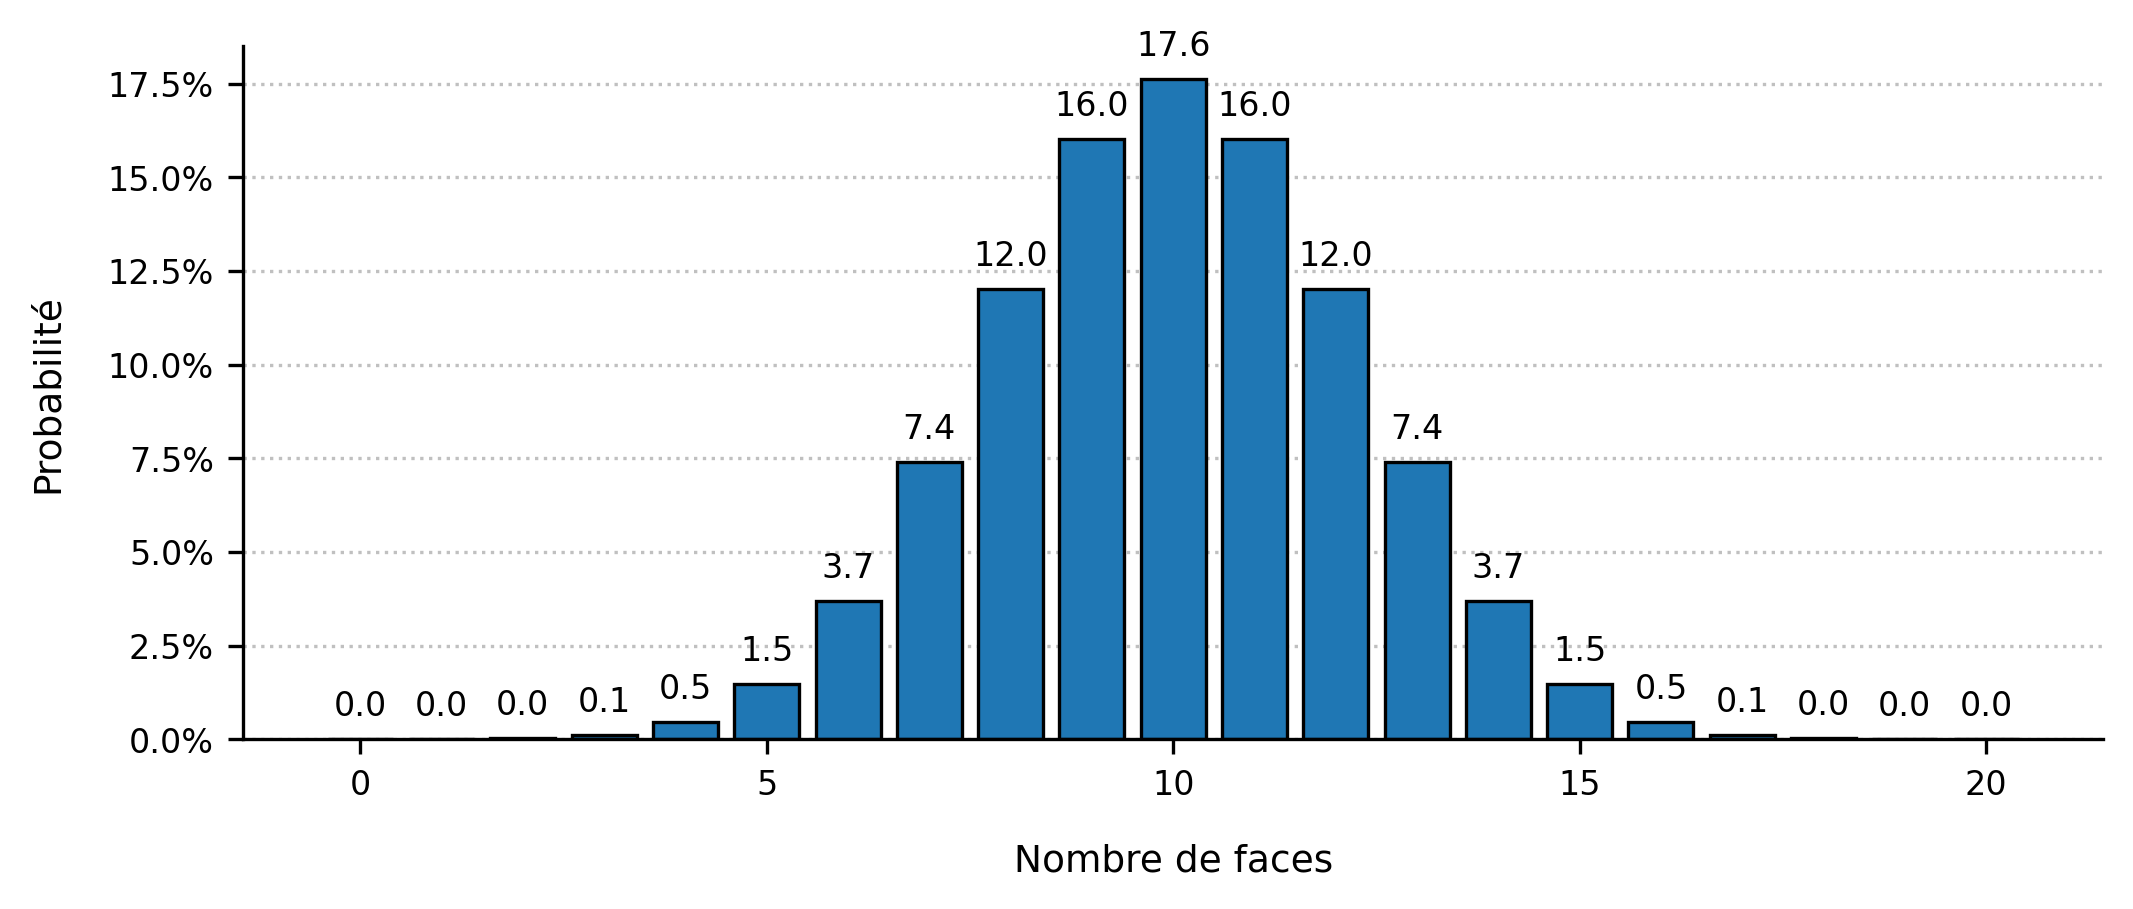
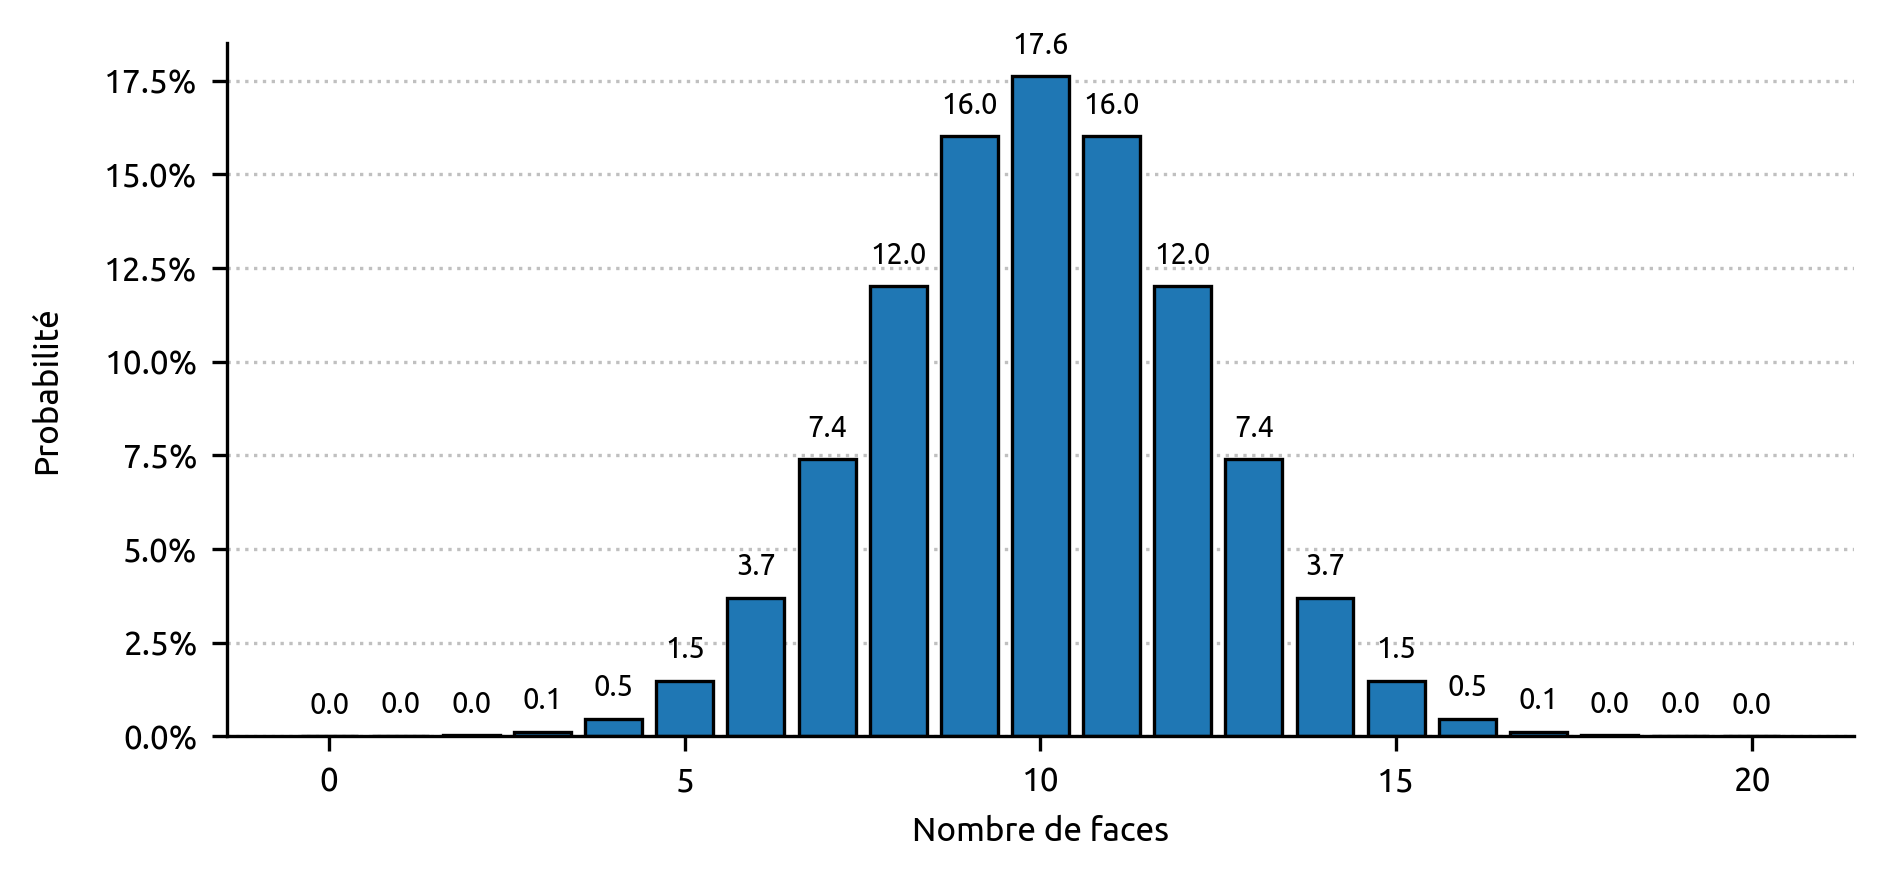
feat(examples-in-action): update page content

diff --git a/examples-in-action/fr/index.html b/examples-in-action/fr/index.html
@@ -141,9 +141,13 @@
           peu moins probable et arrive dans 16% des cas, comme obtenir 9 faces et 11 piles. Ainsi,
           lorsqu'on lance une pièce équilibrée 20 fois, nous avons presque deux fois plus de chances
           de faire 11 piles et 9 faces (16%) ou 9 piles et 11 faces (16%) que 10 piles et 10 faces
-          (17,6%). La distribution de probabilité de la variable aléatoire $F$ comptabilisant le
-          nombre de faces que l'on peut espérer obtenir lorsqu'on lance 20 fois une pièce équilibrée
-          est représentée sur la Figure 1.
+          (17,6%). 32% de chances contre 17,6%. Mais alors, comment décider qu'un résultat sort de
+          la norme ? La réponse est maintenant évidente : en utilisant la p-value.
+        </p>
+        <p>
+          La distribution de probabilité de la variable aléatoire $F$ comptabilisant le nombre de
+          faces que l'on peut espérer obtenir lorsqu'on lance 20 fois une pièce équilibrée est
+          représentée sur la Figure 1.
         </p>
         <figure>
           <img src="figures/figure_1.png" alt="Pièce équilibrée" />
@@ -177,7 +181,15 @@
           Juste pour la beauté des maths, cette formule peut s'écrire : $$ \text{p-value} \coloneqq
           \sum_{i=15}^{20} \mathbb{P}(F = i \mid \text{pièce équilibrée}) $$
         </p>
-        <p>La Figure 2 représente cette quantité et ce qu'est visuellement la p-value.</p>
+        <p>
+          La Figure 2 représente cette quantité et ce qu'est visuellement la p-value. Ici, puisque
+          la variable aléatoire $F$ est <strong>discrète</strong> (on peut compter les valeurs
+          qu'elle peut prendre), la p-value ne correspond pas à une aire entre deux bornes sous une
+          courbe continue &mdash; la densité de probabilité &mdash; mais à la somme de la hauteur
+          des barres de l'histogramme pour toutes les valeurs de 15 à 20. L'<strong>univers</strong>
+          des valeurs possibles étant {0, 1, …, 20}, la somme de <strong>toutes</strong> les
+          hauteurs des barres vaut bien 100%.
+        </p>
         <figure>
           <img src="figures/figure_2.png" alt="p-value 15 faces" />
           <figcaption>
@@ -206,7 +218,8 @@
           monde où $H_0$ est vraie, dans le monde où ma pièce est équilibrée, il ne serait pas
           raisonnable de l'attribuer au hasard. Le monde où $H_0$ est vraie, celui où ma pièce est
           équilibrée, ne colle tout simplement pas avec ce que j'observe. Je dois rejetter mon
-          hypothèse nulle et basculer vers $H_1$ : ma pièce est truquée.&nbsp;&raquo;
+          hypothèse nulle et basculer vers $H_1$ : ma pièce est truquée vers le côté
+          face.&nbsp;&raquo;
         </p>
         <p>
           Si la pièce est vraiment truquée, Franck a pris la bonne décision. Par contre, dans un
@@ -227,6 +240,41 @@
         <div id="controls-container"></div>
         <div id="chart-container"></div>
         <p id="chart-description"></p>
+
+        <h4>Point d'attention</h4>
+        <p>
+          Lorsque le nombre de faces obtenu est très faible et tend vers 0, la p-value est grande et
+          tend vers 1 : l'hypothèse nulle ne peut alors pas être rejetée (p ≥ 0.05). Mais attention,
+          cela ne signifie pas que la pièce est forcément équilibrée. Puisque $H_0$ et $H_1$ sont
+          strictement opposées, la bonne conclusion est bien :
+          <strong>la pièce n'est pas truquée vers le côté face</strong> &mdash; elle peut donc être
+          soit équilibrée, soit truquée vers le côté pile.
+        </p>
+        <p>
+          Par exemple, obtenir seulement 19 faces sur 60 lancers donne $p = 0.999 \gg 0.05$, ce qui
+          confirme que la pièce ne penche pas vers les faces et qu'elle n'est donc pas truquée en
+          faveur de ce côté. Au contraire, la pièce a même l'air de pencher vers le côté pile : 19
+          faces sur 60 lancers, c'est donc 41 piles. Or, si l'on avait observé 41 <em>faces</em> sur
+          60 lancers d'une pièce supposée équilibrée, on aurait obtenu $p = 0.002 &lt; 0.05$ &mdash;
+          un résultat qui nous aurait amené à conclure que la pièce est truquée en faveur du côté
+          face. Par symétrie, on peut donc conclure ici que
+          <strong>la pièce est vraisemblablement truquée vers le côté pile</strong>.
+        </p>
+        <p>
+          C'est précisément pour éviter ce type de raisonnement indirect que l'on distingue en
+          pratique deux grandes familles de tests. Dans un <strong>test unilatéral</strong>, on
+          cherche un effet dans une direction précise : par exemple, la pièce est-elle truquée
+          <em>en faveur du côté face</em> ? Dans un <strong>test bilatéral</strong>, on ne
+          privilégie aucune direction et l'on cherche simplement à savoir si la pièce est truquée,
+          <em>dans un sens ou dans l'autre</em>. Dans notre exemple, nous avons choisi un test
+          unilatéral avec une hypothèse alternative allant dans une seule direction &mdash; en nous
+          demandant uniquement si la pièce était truquée vers les faces &mdash; par souci de
+          simplicité. Notre raisonnement est <strong>tout à fait</strong> correct, mais ne permet
+          juste pas de détecter si une pièce est truquée en faveur du côté pile. En fait, un test
+          bilatéral est souvent plus adapté lorsque l'on veut tester l'équilibre d'une pièce, car il
+          prend en compte les deux types de biais possibles sans avoir à raisonner par symétrie,
+          mais ça, c'est une autre histoire...
+        </p>
       </div>
     </main>
 

diff --git a/examples-in-action/js/lang/fr.js b/examples-in-action/js/lang/fr.js
@@ -23,4 +23,4 @@ LANG.pvalueHigh = (H0, H1, pGte) =>
   `Étant donné que ${pGte} : le résultat obtenu n'est pas extraordinaire dans le monde de ${H0}. Nous n'avons pas amassé suffisament de preuves pour basculer vers ${H1} et conclure que la pièce est truquée en faveur du côté face : nous devons rester dans ${H0}. Soit notre pièce n'est pas truquée en faveur du côté face, soit elle l'est mais nous n'en avons pas la preuve.`;
 
 LANG.pvalueLow = (H0, H1, pLt) =>
-  `Étant donné que ${pLt} : le résultat obtenu est extraordinaire dans le monde de ${H0}. Si la pièce était vraiment équilibrée, observer ce résultat aurait été trop peu probable. Avec un niveau de preuve suffisant, on bascule vers ${H1} : on peut raisonnablement croire que notre est pièce est truquée en faveur du côté face.`;
+  `Étant donné que ${pLt} : le résultat obtenu est extraordinaire dans le monde de ${H0}. Si la pièce était vraiment équilibrée, observer ce résultat aurait été trop peu probable. Avec un niveau de preuve suffisant, on bascule vers ${H1} : on peut raisonnablement croire que notre pièce est truquée en faveur du côté face.`;
